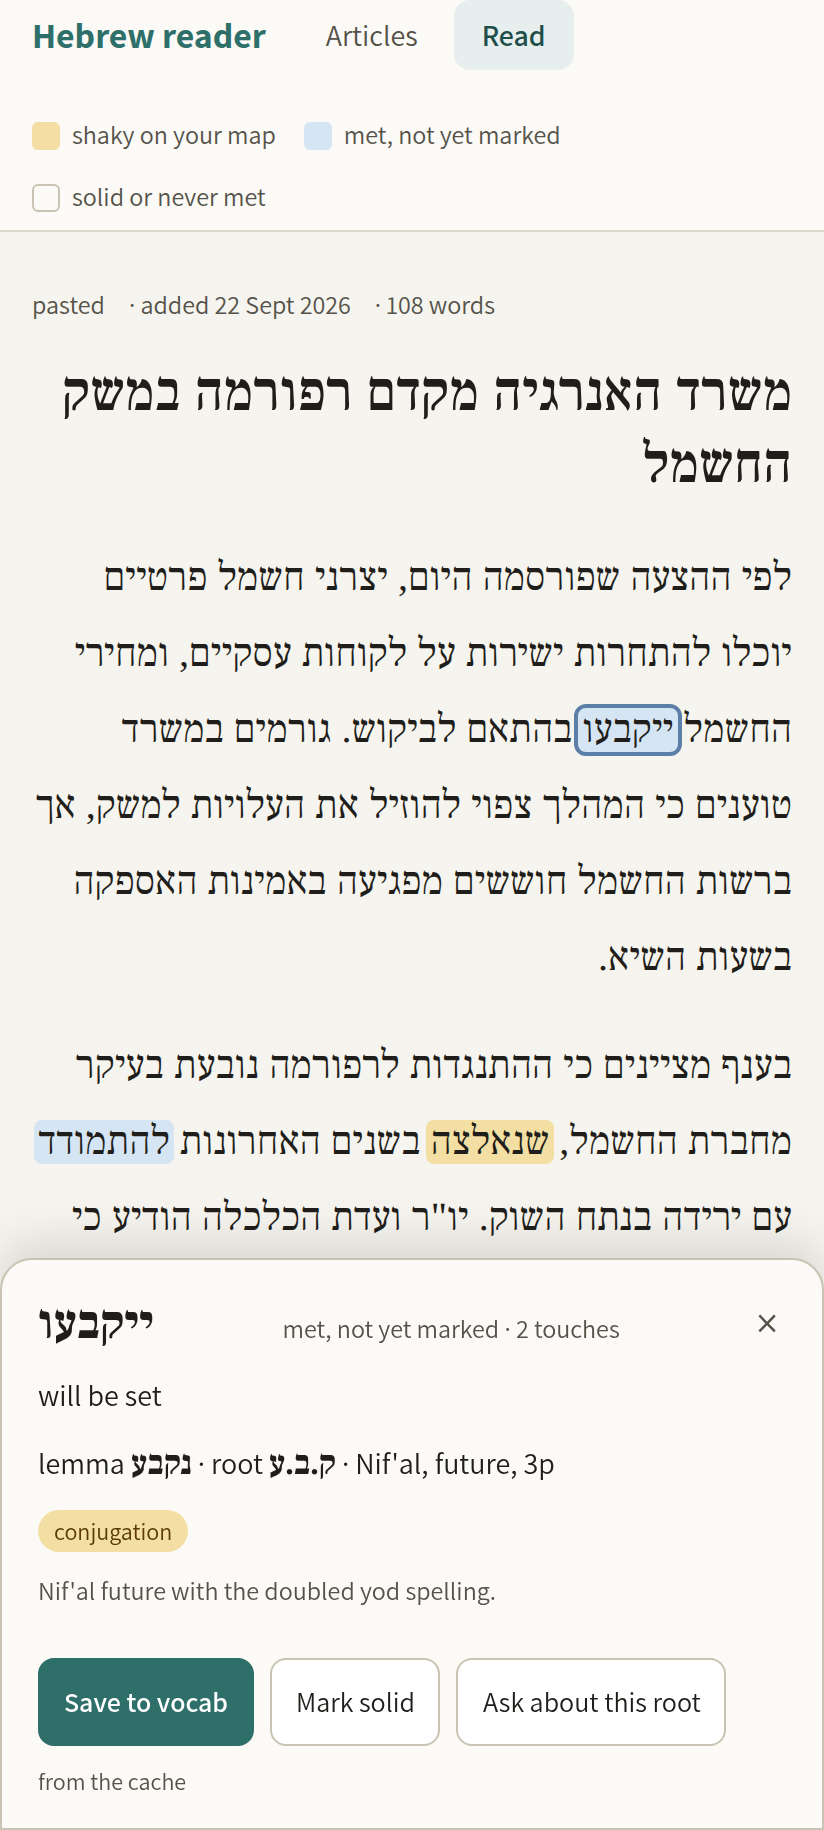
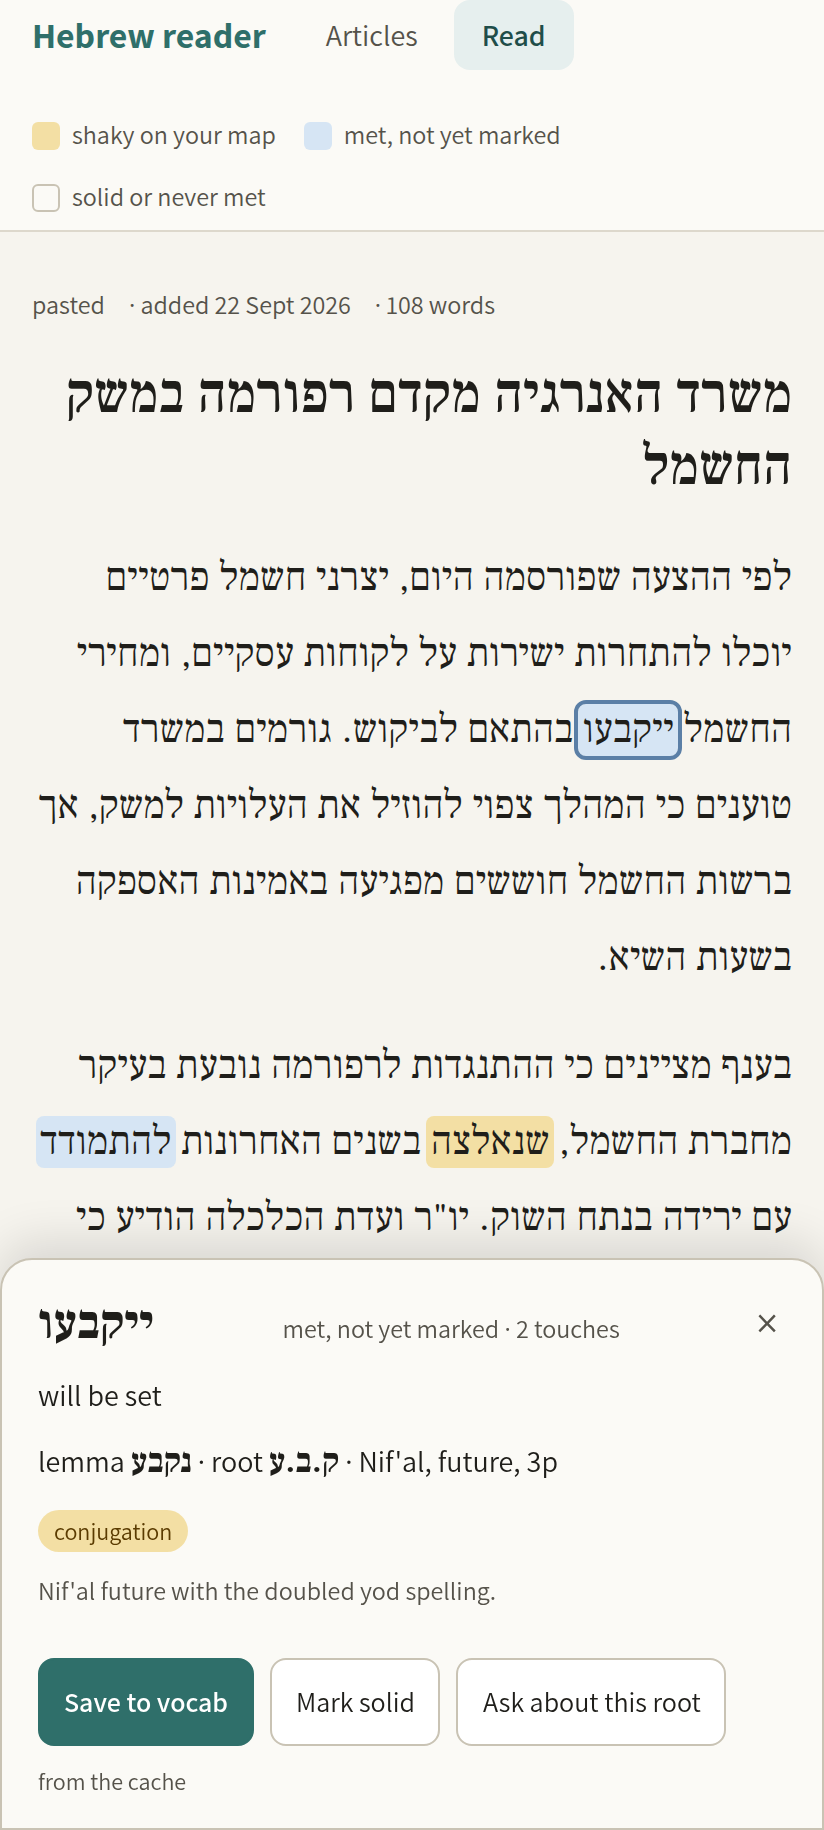
Ask box: an answer with no links is an answer, not a failure
Dan asked which Nif'al forms were in a piece whose mapped words held none.
The model answered in plain words; the page showed the answer under "The
references could not be asked:". Two branches did that: the ask prompt told
the model to use {"error"} when a question "cannot be answered", and the
server threw on any reply that was not JSON.

- lib/ask.js: the prompt now says that "there is none" IS the answer, with
  an empty links list, and reserves {"error"} for declining to answer at
  all. A reply carrying an answer renders as the answer, links or not; the
  failure line is left for the model being unreachable, timing out,
  declining, or answering nothing usable, and it names which.
- lib/lookup.js: chat() takes textFallback, so a non-JSON but non-empty
  reply comes back as { text } instead of being thrown away. The card path
  is unchanged and still refuses anything but JSON.
- public/ask.js: a link-less answer draws with a quiet "nothing here to look
  up" line; a stale answer is cleared when a question does fail.
- The mock can now force four ask shapes (no links, plain text, declined,
  unreachable); four checks cover them. Checks: 64 (was 60), screenshots 40.

Claude-Session: https://claude.ai/code/session_01JufT2a1cRcmMmJSyc2Pkt4

diff --git a/lib/ask.js b/lib/ask.js
@@ -4,6 +4,11 @@
 // the references in lib/references.js. With an article, the piece's mapped
 // words go into the question so "which Nif'al forms are in this piece" is
 // answered from data.
+//
+// An answer is an answer whether or not anything came with it to link to:
+// "no Nif'al form here" is data, not a failure. The failure line is only for
+// the model being unreachable, timing out, declining, or answering nothing
+// usable, and it says which.
 
 const db = require('./db');
 const lookup = require('./lookup');
@@ -21,8 +26,15 @@ Answer with ONE JSON object and nothing else:
   "answer": "<the brief answer>",
   "links": [ { "claim": "<one claim from the answer, a few words>", "reference": one of ${JSON.stringify(refs.IDS)}, "term": "<the Hebrew word, root letters or phrase to search for>" }, ... ]
 }
-Give one link per claim, at least one link in all, choosing the reference that would confirm that claim (verb forms: pealim; meanings: milog or morfix; usage and etymology: wiktionary; normative rulings: academy).
-When the question is not about Hebrew or cannot be answered, answer {"error": "<one short reason>"}.`;
+Give one link per claim a reference could confirm, choosing the reference that would confirm it (verb forms: pealim; meanings: milog or morfix; usage and etymology: wiktionary; normative rulings: academy). When there is nothing to look up, "links" is [].
+When the true answer is that there is none — no such form appears, nothing in the reader's list matches — that IS the answer: say so plainly in "answer" and give "links": []. Never call that an error.
+Answer {"error": "<one short reason>"} only when you will not answer at all: the question is not about Hebrew, or you decline it.`;
+
+const FAILED = 'The references could not be asked';
+
+function text(v) {
+  return typeof v === 'string' ? v.trim() : '';
+}
 
 function articleContext(articleId) {
   const article = db.getArticle(articleId);
@@ -54,19 +66,25 @@ async function ask({ question, article_id }) {
     articleTitle = article.title;
     user += `\n\nThe reader is looking at the article "${article.title}". Its words on the reader's map (surface: root/lemma, binyan, status):\n${lines.length ? lines.join('\n') : '(none yet)'}`;
   }
-  const raw = await lookup.chat({ system: SYSTEM, user, maxTokens: 700, what: 'The references could not be asked' });
-  if (raw.error) throw new db.ReaderError(422, `The references could not be asked: ${String(raw.error).trim()}`);
-  const answer = typeof raw.answer === 'string' ? raw.answer.trim() : '';
-  if (!answer) throw new db.ReaderError(502, 'The references could not be asked: the model gave no answer.');
+  const raw = await lookup.chat({ system: SYSTEM, user, maxTokens: 700, what: FAILED, textFallback: true });
+  // Anything the model said that reads as an answer is the answer: JSON with
+  // an "answer", or plain text it sent instead of JSON. Only a reply with no
+  // answer at all reaches the failure line, which names why.
+  const answer = text(raw.answer) || text(raw.text);
+  if (!answer) {
+    const declined = text(raw.error);
+    if (declined) throw new db.ReaderError(422, `${FAILED}: the model declined — ${declined}`);
+    throw new db.ReaderError(502, `${FAILED}: the model gave no answer.`);
+  }
   const links = [];
   for (const l of Array.isArray(raw.links) ? raw.links : []) {
     const ref = refs.byId(l && l.reference);
-    const term = l && typeof l.term === 'string' ? l.term.trim() : '';
+    const term = text(l && l.term);
     if (!ref || !term) continue;
-    links.push({ claim: typeof l.claim === 'string' ? l.claim.trim() : '', reference: ref.id, label: ref.label, term, url: ref.url(term) });
+    links.push({ claim: text(l && l.claim), reference: ref.id, label: ref.label, term, url: ref.url(term) });
   }
   console.log(`ask: "${question.slice(0, 60)}"${articleTitle ? ` on "${articleTitle}"` : ''} -> ${links.length} link(s)`);
-  return { answer, links, references: refs.REFERENCES.map((r) => ({ id: r.id, label: r.label })), state: 'ok' };
+  return { answer, links, references: refs.REFERENCES.map((r) => ({ id: r.id, label: r.label })), state: 'ok', links_state: links.length ? 'ok' : 'no data' };
 }
 
 module.exports = { ask, SYSTEM };

diff --git a/public/ask.js b/public/ask.js
@@ -2,6 +2,11 @@
 // The reader's Ask box: one question to the references through POST /ask,
 // the brief answer and its links drawn under it. The article's mapped words
 // go along so questions about this piece are answered from data.
+//
+// An answer with no links is still an answer: it draws in the box with a
+// quiet line saying nothing came back to look up. The red line under the
+// button is only for a question the references could not be asked at all,
+// and the server's message says why.
 
 (function () {
   const $ = (s) => document.querySelector(s);
@@ -20,7 +25,7 @@
       $('#ask-text').textContent = data.answer;
       const links = $('#ask-links');
       links.innerHTML = '';
-      for (const l of data.links) {
+      for (const l of data.links || []) {
         const li = document.createElement('li');
         if (l.claim) { const c = document.createElement('span'); c.className = 'claim'; c.textContent = `${l.claim} · `; li.append(c); }
         const a = document.createElement('a'); a.href = l.url; a.target = '_blank'; a.rel = 'noopener'; a.textContent = `${l.label}: `;
@@ -29,11 +34,12 @@
         li.append(a);
         links.append(li);
       }
-      if (!data.links.length) {
-        const li = document.createElement('li'); li.className = 'claim'; li.textContent = 'No reference link came back for this answer.'; links.append(li);
+      if (!links.children.length) {
+        const li = document.createElement('li'); li.className = 'claim none'; li.textContent = 'Nothing here to look up in a reference.'; links.append(li);
       }
       box.classList.remove('hidden');
     } catch (e) {
+      box.classList.add('hidden');
       msg.className = 'msg error'; msg.textContent = e.message;
     } finally {
       go.disabled = false;

diff --git a/lib/lookup.js b/lib/lookup.js
@@ -91,8 +91,11 @@ function parseJsonLoose(text) {
 
 // One call to the model: `system` and `user` in, the parsed JSON object out.
 // Throws a ReaderError starting with `what` when the model cannot be reached
-// or does not answer JSON. Every model call in the app goes through here.
-async function chat({ system, user, maxTokens = 600, what = 'Card could not be built' }) {
+// or answers nothing usable, and the message names which. With
+// `textFallback`, a reply that is not JSON but does carry text comes back as
+// { text } instead of being thrown away — the ask surface treats that text as
+// the answer. Every model call in the app goes through here.
+async function chat({ system, user, maxTokens = 600, what = 'Card could not be built', textFallback = false }) {
   const key = process.env.OPENROUTER_API_KEY;
   if (!key) throw new db.ReaderError(503, `${what}: OPENROUTER_API_KEY is unset.`);
   const ac = new AbortController();
@@ -135,8 +138,11 @@ async function chat({ system, user, maxTokens = 600, what = 'Card could not be b
     throw new db.ReaderError(502, `${what}: OpenRouter returned an unexpected shape.`);
   }
   const raw = parseJsonLoose(content);
-  if (!raw) throw new db.ReaderError(502, `${what}: the model did not return JSON.`);
-  return raw;
+  if (raw) return raw;
+  const plain = String(content || '').trim();
+  if (!plain) throw new db.ReaderError(502, `${what}: the model returned nothing.`);
+  if (textFallback) return { text: plain };
+  throw new db.ReaderError(502, `${what}: the model did not return JSON.`);
 }
 
 function askModel(surface, sentence) {
